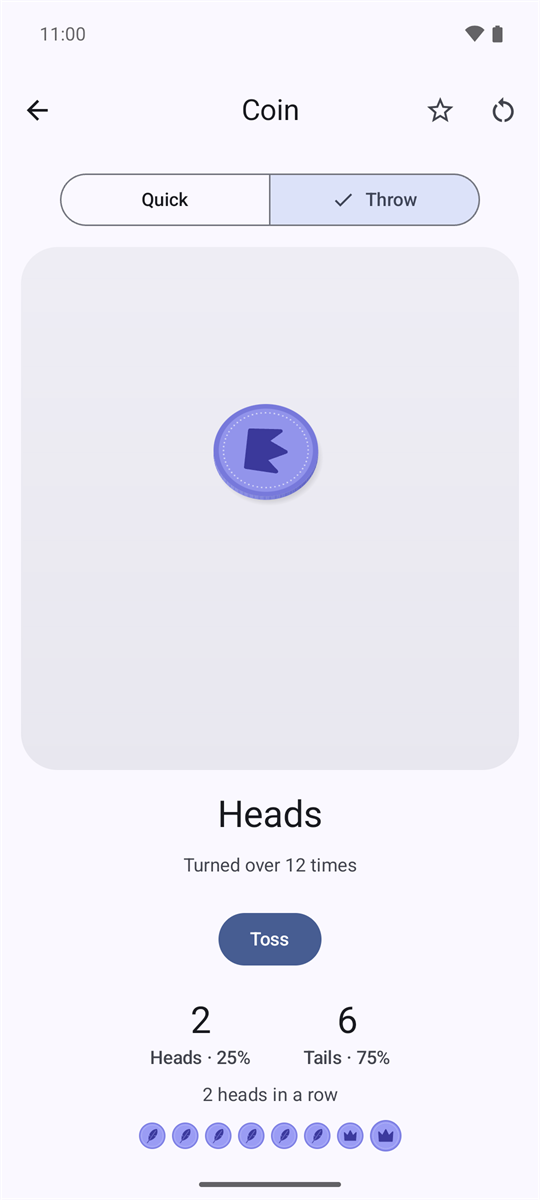
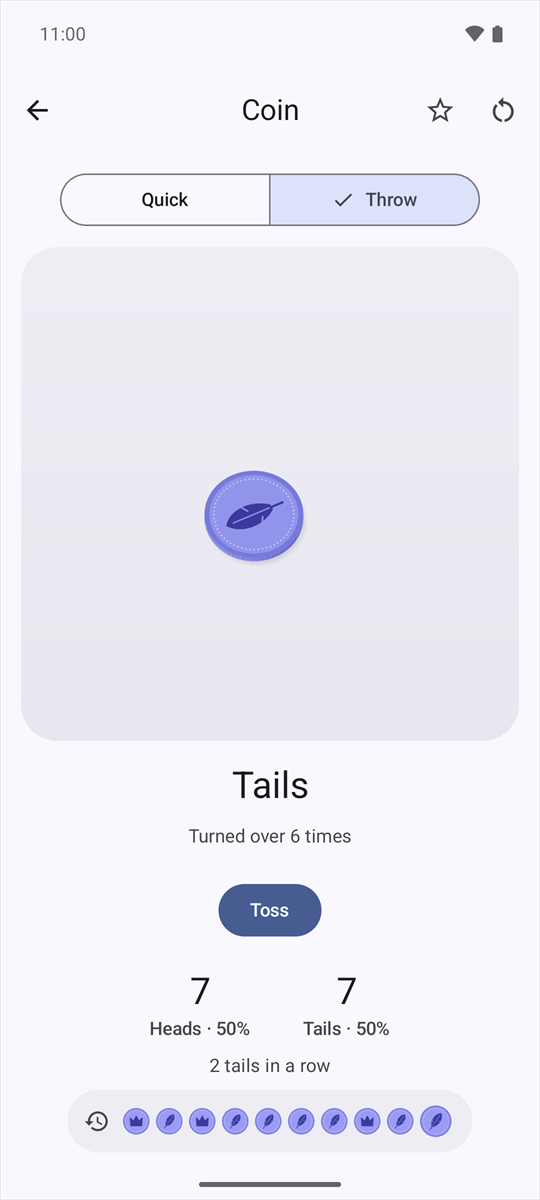
Phase 22: Release 1.2.0, docs and website (#23)
Version 1.2.0 (code 3). 1.1.0 was never published, so 1.2.0 is the first
release-signed build and its changelog includes 1.1.0's changes.

- Changelog: 1.2.0 section, with the uninstall-1.0.0 note moved to it.
- README: what's inside, Permissions (approximate location for True
  north, notifications and reboot for the Stopwatch), Your data, and
  the project layout.
- Website: tile copy for nine tools, privacy and permissions copy, and
  a "What's new in 1.2.0" link.
- Screenshots: Coin and Dice refreshed with the history bar, and the
  Calculator added as a sixth.

Changed region(s): [[0.1481, 0.6167, 0.8296, 0.9558], [0.3852, 0.3392, 0.5926, 0.4933]]

diff --git a/docs/index.html b/docs/index.html
@@ -131,7 +131,7 @@ h2 { font-size: clamp(28px, 4vw, 38px); letter-spacing: -.01em; margin: 0 0 8px;
 .sub { color: var(--text-2); margin: 0 0 32px; font-size: 17px; max-width: 42em; }
 
 /* Screenshots */
-.shots { display: grid; grid-template-columns: repeat(5, 1fr); gap: 16px; }
+.shots { display: grid; grid-template-columns: repeat(6, 1fr); gap: 16px; }
 .shots figure { margin: 0; }
 .shots img { width: 100%; height: auto; display: block; border-radius: 18px; border: 1px solid var(--outline); background: var(--surface); }
 .shots figcaption { color: var(--text-2); font-size: 14px; text-align: center; margin-top: 8px; }
@@ -200,7 +200,7 @@ footer .wrap { display: flex; flex-wrap: wrap; gap: 12px; justify-content: space
         <a class="btn primary" href="https://github.com/totallynotkasai/Toolbox/releases/latest"><span class="ms">download</span>Download APK</a>
         <a class="btn tonal" href="https://github.com/totallynotkasai/Toolbox"><span class="ms">code</span>View source</a>
       </div>
-      <p class="fine">Free and offline. No ads, no accounts, no tracking. <a href="https://github.com/totallynotkasai/Toolbox/blob/main/CHANGELOG.md">What’s new in 1.1.0</a></p>
+      <p class="fine">Free and offline. No ads, no accounts, no tracking. <a href="https://github.com/totallynotkasai/Toolbox/blob/main/CHANGELOG.md">What’s new in 1.2.0</a></p>
     </div>
 
     <div class="phone" aria-hidden="true">
@@ -243,8 +243,9 @@ footer .wrap { display: flex; flex-wrap: wrap; gap: 12px; justify-content: space
     <p class="sub">Material You throughout, with real physics for the coin and dice.</p>
     <div class="shots">
       <figure><img src="screenshots/home.png" width="540" height="1200" loading="lazy" alt="The home screen: search, category chips and a two-column tool grid"><figcaption>Home</figcaption></figure>
-      <figure><img src="screenshots/coin.png" width="540" height="1200" loading="lazy" alt="Coin in Throw mode, showing heads, the counts and the recent results"><figcaption>Coin</figcaption></figure>
-      <figure><img src="screenshots/dice.png" width="540" height="1200" loading="lazy" alt="Dice in Throw mode: three six-sided dice totalling 7"><figcaption>Dice</figcaption></figure>
+      <figure><img src="screenshots/coin.png" width="540" height="1200" loading="lazy" alt="Coin in Throw mode: tails, 7 heads and 7 tails, 2 tails in a row, and the last ten results in the history bar"><figcaption>Coin</figcaption></figure>
+      <figure><img src="screenshots/dice.png" width="540" height="1200" loading="lazy" alt="Dice in Throw mode: three six-sided dice totalling 14, with the last ten totals in the history bar"><figcaption>Dice</figcaption></figure>
+      <figure><img src="screenshots/calculator.png" width="540" height="1200" loading="lazy" alt="The Calculator with 150 in memory, recalled into 1200÷12+150, previewing 250"><figcaption>Calculator</figcaption></figure>
       <figure><img src="screenshots/connect-four.png" width="540" height="1200" loading="lazy" alt="Connect Four, won against the computer"><figcaption>Connect Four</figcaption></figure>
       <figure><img src="screenshots/bubble-wrap.png" width="540" height="1200" loading="lazy" alt="Bubble Wrap with a third of the sheet popped"><figcaption>Bubble Wrap</figcaption></figure>
     </div>
@@ -274,26 +275,26 @@ footer .wrap { display: flex; flex-wrap: wrap; gap: 12px; justify-content: space
       <p>Shake your phone to decide: it works on all six.</p>
       <div class="tiles">
         <div class="tile" data-tool="coin"><span class="ic c-yellow" style="--i:url(icons/coin.svg)"></span><div><b>Coin</b><span>Quick flip, or Throw: a physics coin you swipe or flick. Keeps counts and streaks.</span></div></div>
-        <div class="tile" data-tool="dice"><span class="ic c-green" style="--i:url(icons/dice.svg)"></span><div><b>Dice</b><span>d4 to d20, up to six at once. Quick roll, or throw them across a walled table.</span></div></div>
+        <div class="tile" data-tool="dice"><span class="ic c-green" style="--i:url(icons/dice.svg)"></span><div><b>Dice</b><span>d4 to d20, up to six at once. Quick roll, or throw them across a walled table. Keeps your last 20 rolls.</span></div></div>
         <div class="tile" data-tool="eightball"><span class="ic c-red" style="--i:url(icons/eightball.svg)"></span><div><b>Magic 8-Ball</b><span>Ask a question and shake for one of the 20 classic answers.</span></div></div>
-        <div class="tile" data-tool="random"><span class="ic c-blue" style="--i:url(icons/random.svg)"></span><div><b>Random Number</b><span>Any whole number in a range, negatives included.</span></div></div>
-        <div class="tile" data-tool="spinner"><span class="ic c-green" style="--i:url(icons/spinner.svg)"></span><div><b>Spinner</b><span>A wheel of up to 20 of your own options. A flick always turns it at least twice, so it can’t be aimed.</span></div></div>
-        <div class="tile" data-tool="teams"><span class="ic c-yellow" style="--i:url(icons/teams.svg)"></span><div><b>Team Splitter</b><span>Split up to 60 names by team count or team size, then share the teams as text.</span></div></div>
+        <div class="tile" data-tool="random"><span class="ic c-blue" style="--i:url(icons/random.svg)"></span><div><b>Random Number</b><span>Any whole number in a range, negatives included, with your last 20 kept.</span></div></div>
+        <div class="tile" data-tool="spinner"><span class="ic c-green" style="--i:url(icons/spinner.svg)"></span><div><b>Spinner</b><span>A wheel of up to 20 of your own options. A flick always turns it at least twice, so it can’t be aimed. Keeps your last 20 results.</span></div></div>
+        <div class="tile" data-tool="teams"><span class="ic c-yellow" style="--i:url(icons/teams.svg)"></span><div><b>Team Splitter</b><span>Split up to 60 names by team count or team size, then share the teams as text. Your last split is kept.</span></div></div>
       </div>
     </div>
 
     <div class="cat" data-c="Measurements">
       <h3><span class="ms">straighten</span>Measurements</h3>
-      <p>Uses your phone’s sensors and microphone. Permissions are only asked for when you open a screen that needs them.</p>
+      <p>Uses your phone’s sensors and microphone. Permissions are only asked for when you open a screen that needs them, and approximate location only if you turn on true north.</p>
       <div class="tiles">
         <div class="tile" data-tool="level"><span class="ic c-green" style="--i:url(icons/level.svg)"></span><div><b>Bubble Level</b><span>Tilt on both axes to 0.1°, which edge is high, and “Set as level” for a phone that doesn’t sit flat.</span></div></div>
-        <div class="tile" data-tool="calculator"><span class="ic c-red" style="--i:url(icons/calculator.svg)"></span><div><b>Calculator</b><span>Brackets, phone-style percentages, a live preview and exact decimals. Turns with the phone.</span></div></div>
-        <div class="tile" data-tool="compass"><span class="ic c-red" style="--i:url(icons/compass.svg)"></span><div><b>Compass</b><span>Magnetic, with calibration and interference warnings and a marked bearing to follow.</span></div></div>
+        <div class="tile" data-tool="calculator"><span class="ic c-red" style="--i:url(icons/calculator.svg)"></span><div><b>Calculator</b><span>Brackets, phone-style percentages, a live preview and exact decimals. Memory keys, your last 50 sums, and it turns with the phone.</span></div></div>
+        <div class="tile" data-tool="compass"><span class="ic c-red" style="--i:url(icons/compass.svg)"></span><div><b>Compass</b><span>Magnetic or true north, with calibration and interference warnings and a marked bearing to follow.</span></div></div>
         <div class="tile" data-tool="soundmeter"><span class="ic c-yellow" style="--i:url(icons/soundmeter.svg)"></span><div><b>Sound Meter</b><span>Approximate dB with min, average, max and 30 s of history. Calibrate it to your phone’s mic.</span></div></div>
         <div class="tile" data-tool="steps"><span class="ic c-blue" style="--i:url(icons/steps.svg)"></span><div><b>Step Counter</b><span>Counts from midnight even with the app closed. Goal ring, distance, calories and a 7-day chart.</span></div></div>
         <div class="tile" data-tool="counter"><span class="ic c-blue" style="--i:url(icons/counter.svg)"></span><div><b>Tally Counter</b><span>Tap to count anything, with undo after a reset.</span></div></div>
         <div class="tile" data-tool="tuner"><span class="ic c-blue" style="--i:url(icons/tuner.svg)"></span><div><b>Tuner</b><span>Chromatic, guitar, bass, ukulele and violin, with a needle in cents.</span></div></div>
-        <div class="tile" data-tool="units"><span class="ic c-green" style="--i:url(icons/units.svg)"></span><div><b>Unit Converter</b><span>Ten categories, with UK and US pints, gallons, tons and mpg.</span></div></div>
+        <div class="tile" data-tool="units"><span class="ic c-green" style="--i:url(icons/units.svg)"></span><div><b>Unit Converter</b><span>Eleven categories, with UK and US pints, gallons, tons and mpg. Cooking turns cups into grams and gas marks into °C.</span></div></div>
       </div>
     </div>
 
@@ -302,8 +303,8 @@ footer .wrap { display: flex; flex-wrap: wrap; gap: 12px; justify-content: space
       <p>Clocks and counters for the kitchen, the gym and the practice room.</p>
       <div class="tiles">
         <div class="tile" data-tool="dates"><span class="ic c-red" style="--i:url(icons/dates.svg)"></span><div><b>Date Calculator</b><span>Days and working days between dates, adding and subtracting, and age.</span></div></div>
-        <div class="tile" data-tool="metronome"><span class="ic c-red" style="--i:url(icons/metronome.svg)"></span><div><b>Metronome</b><span>30 to 250 BPM, tap tempo, time signatures and an accent on the first beat.</span></div></div>
-        <div class="tile" data-tool="stopwatch"><span class="ic c-red" style="--i:url(icons/stopwatch.svg)"></span><div><b>Stopwatch</b><span>Hundredths of a second, with laps and an optional keep-screen-on.</span></div></div>
+        <div class="tile" data-tool="metronome"><span class="ic c-red" style="--i:url(icons/metronome.svg)"></span><div><b>Metronome</b><span>30 to 250 BPM and tap tempo, 2/4 to 6/8 with accents, and 2, 3 or 4 clicks a beat. Remembers your settings.</span></div></div>
+        <div class="tile" data-tool="stopwatch"><span class="ic c-red" style="--i:url(icons/stopwatch.svg)"></span><div><b>Stopwatch</b><span>Hundredths of a second and laps. Keeps running with the app closed, with Pause and Lap in the notifications.</span></div></div>
         <div class="tile" data-tool="timer"><span class="ic c-yellow" style="--i:url(icons/timer.svg)"></span><div><b>Timer</b><span>A real alarm: it rings on time with the phone asleep, at alarm volume, until you stop it. Countdown in the notifications.</span></div></div>
       </div>
     </div>
@@ -366,11 +367,11 @@ footer .wrap { display: flex; flex-wrap: wrap; gap: 12px; justify-content: space
     <p class="sub">Toolbox is built in Kotlin and Jetpack Compose, styled after Google’s own search tools.</p>
     <div class="features">
       <div class="feature"><span class="ms">palette</span><h3>Material You</h3><p>Picks up your wallpaper colours on Android 12 and later, with light and dark themes.</p></div>
-      <div class="feature"><span class="ms">shield</span><h3>Nothing leaves your phone</h3><p>No internet permission, no analytics, no ads and no sign-in. Scores and settings stay on the phone, and go only into your own Android backup if you use one. Step history is left out.</p></div>
+      <div class="feature"><span class="ms">shield</span><h3>Nothing leaves your phone</h3><p>No internet permission, no analytics, no ads and no sign-in. Scores and settings stay on the phone, and go only into your own Android backup if you use one. Step history and the stopwatch are left out. True north keeps only the declination, never your location.</p></div>
       <div class="feature"><span class="ms">inventory_2</span><h3>No third-party code</h3><p>Pitch detection, audio synthesis, dice and coin physics and every game AI are written from scratch.</p></div>
       <div class="feature"><span class="ms">vibration</span><h3>Shake to decide</h3><p>Shake your phone to flip, roll, spin, ask, pick a number or reshuffle teams. Harder shakes throw higher.</p></div>
       <div class="feature"><span class="ms">accessibility_new</span><h3>Works with TalkBack</h3><p>Every screen reads out properly and fits at large text sizes, and the turn-based games can be played with TalkBack.</p></div>
-      <div class="feature"><span class="ms">lock_open</span><h3>Permissions on demand</h3><p>Microphone and activity access are only asked for when you open a screen that needs them, and notifications when you first start a timer.</p></div>
+      <div class="feature"><span class="ms">lock_open</span><h3>Permissions on demand</h3><p>Microphone and activity access are only asked for when you open a screen that needs them, approximate location only for true north, and notifications when you first start a timer or the stopwatch.</p></div>
     </div>
   </div>
 </section>

diff --git a/README.md b/README.md
@@ -5,39 +5,44 @@ Forty everyday tools, fidget toys and mini-games in one Android app, styled afte
 **Website:** https://totallynotkasai.github.io/Toolbox/
 **Download:** [latest APK](https://github.com/totallynotkasai/Toolbox/releases/latest/download/Toolbox.apk) (Android 8.0 and up) · [what's new](CHANGELOG.md)
 
-> **Upgrading from 1.0.0?** Version 1.0.0 was signed with a development key, and 1.1.0 onwards uses the project's release key. Android won't install one over the other, so uninstall 1.0.0 first. Its scores, favourites and settings are lost. Later versions update in place.
+> **Upgrading from 1.0.0?** Version 1.0.0 was signed with a development key, and 1.2.0 onwards uses the project's release key. Android won't install one over the other, so uninstall 1.0.0 first. Its scores, favourites and settings are lost. Later versions update in place.
 
 <p align="center">
-  <img src="docs/screenshots/home.png" width="19%" alt="The home screen: search, category chips and a two-column tool grid">
-  <img src="docs/screenshots/coin.png" width="19%" alt="Coin in Throw mode, showing heads, the counts and the recent results">
-  <img src="docs/screenshots/dice.png" width="19%" alt="Dice in Throw mode: three six-sided dice totalling 7">
-  <img src="docs/screenshots/connect-four.png" width="19%" alt="Connect Four, won against the computer">
-  <img src="docs/screenshots/bubble-wrap.png" width="19%" alt="Bubble Wrap with a third of the sheet popped">
+  <img src="docs/screenshots/home.png" width="15.5%" alt="The home screen: search, category chips and a two-column tool grid">
+  <img src="docs/screenshots/coin.png" width="15.5%" alt="Coin in Throw mode: tails, the counts, the run and the history bar">
+  <img src="docs/screenshots/dice.png" width="15.5%" alt="Dice in Throw mode: three six-sided dice totalling 14, with the history bar">
+  <img src="docs/screenshots/calculator.png" width="15.5%" alt="The Calculator with a value in memory, recalled into a sum">
+  <img src="docs/screenshots/connect-four.png" width="15.5%" alt="Connect Four, won against the computer">
+  <img src="docs/screenshots/bubble-wrap.png" width="15.5%" alt="Bubble Wrap with a third of the sheet popped">
 </p>
 
 ## What's inside
 
 - **Decision Making:** Coin (Quick flip, or Throw: a physics coin you swipe or flick) · Dice (d4 to d20, up to 6 dice, Quick or Throw) · Magic 8-Ball · Random Number · Spinner (your own options) · Team Splitter
-- **Measurements:** Bubble Level · Calculator · Compass · Sound Meter · Step Counter · Tally Counter · Tuner (chromatic, guitar, bass, ukulele, violin) · Unit Converter (UK and US measures)
-- **Time:** Date Calculator · Metronome · Stopwatch (laps) · Timer (a real alarm)
+- **Measurements:** Bubble Level · Calculator (memory and history) · Compass (magnetic or true north) · Sound Meter · Step Counter · Tally Counter · Tuner (chromatic, guitar, bass, ukulele, violin) · Unit Converter (UK and US measures, and cooking: cups to grams and gas marks)
+- **Time:** Date Calculator · Metronome (2/4 to 6/8, with subdivisions) · Stopwatch (laps; keeps running when the app is closed) · Timer (a real alarm)
 - **Fidget Toys:** Bubble Wrap · Clicky Switches · Fidget Spinner · Purring Cat · Rain Stick · Rotary Dial · Zip & Ratchet
 - **Calm:** Meditate (guided breathing)
 - **Solo Games:** 2048 · Block Breaker · Lights Out · Memory Game · Reaction Time · Simon · Snake · Stack Tower
 - **Duo Games:** Air Hockey · Battleships · Connect Four · Dots and Boxes · Snowman (Hangman with a melting snowman) · Tic-Tac-Toe, each against the computer or another player on the same phone
 
-Search finds a tool by its name, category or keywords ("decibel" finds the Sound Meter, "north" the Compass). Star any tile to pin it under **Favourites**. Shake the phone to decide on the Coin, Dice, Spinner, Random Number, Magic 8-Ball and Team Splitter. The gear on the home screen holds the two app-wide switches, Vibration and Shake to decide.
+Search finds a tool by its name, category or keywords ("decibel" finds the Sound Meter, "north" the Compass). Star any tile to pin it under **Favourites**. Shake the phone to decide on the Coin, Dice, Spinner, Random Number, Magic 8-Ball and Team Splitter. The Coin, Dice, Spinner and Random Number keep their last 20 results, and the Team Splitter its last split. The gear on the home screen holds the two app-wide switches, Vibration and Shake to decide.
 
 Every screen works with TalkBack and at large font sizes, and the turn-based games can be played with TalkBack.
 
 ## Permissions
 
-The microphone (Tuner, Sound Meter) and physical activity (Step Counter) are asked for only when their screen first opens. The Step Counter also starts after a reboot so the day's count carries on.
+The microphone (Tuner, Sound Meter) and physical activity (Step Counter) are asked for only when their screen first opens.
 
-Notifications are asked for the first time a timer starts. They show the Timer's countdown, and its Stop and +1 min buttons, outside the app. Without them the alarm still rings, and opening Toolbox stops it. The Timer sets an alarm-clock alarm so it rings on time with the phone asleep, and plays the phone's alarm sound at alarm volume until it is stopped. A timer that is running when the phone restarts is lost.
+Approximate location is asked for only when True north is first turned on in the Compass, and never precise location. It's used to work out the declination (the angle between magnetic and true north where you are) on the phone, with no internet, at most once a day. Only the declination is kept, never the location. Without it, the declination can be typed in.
+
+Notifications are asked for the first time a timer or the stopwatch starts. They show the Timer's countdown, with Stop and +1 min, and the Stopwatch's running time, with Pause and Lap (or Resume and Reset). Without them the alarm still rings, opening Toolbox stops it, and the stopwatch still keeps running. The Timer sets an alarm-clock alarm so it rings on time with the phone asleep, and plays the phone's alarm sound at alarm volume until it is stopped. A timer that is running when the phone restarts is lost.
+
+Toolbox also starts after a reboot, so the Step Counter's day carries on and a running or paused stopwatch's notification comes back. The stopwatch keeps the right time across a restart either way.
 
 ## Your data
 
-Scores, favourites and settings are kept on the phone. If Android backup is on, they go into your own backup like any app's, so a new phone gets them back. The Step Counter's history is left out, because its readings only make sense on the phone that took them.
+Scores, favourites, settings, Calculator memory and history, and the recent results of the Coin, Dice, Spinner and Random Number are kept on the phone. If Android backup is on, they go into your own backup like any app's, so a new phone gets them back. The Step Counter's history and the Stopwatch are left out, because their readings only make sense on the phone that took them. The Compass keeps only its declination, never your location.
 
 ## Building
 
@@ -86,6 +91,9 @@ app/src/main/java/com/toolbox/app/
                     ToolIcons.kt    the hand-drawn icons, also exported for the website
                     Prefs.kt        saved settings; Vibes.kt every vibration
                     PcmStream.kt    streamed procedural audio; ToneSynth.kt and Dsp.kt build sounds on it
+                    ResultHistory.kt  recent results: the bar and the full list
+                    NotificationAccess.kt  asking for notifications (Timer, Stopwatch)
+                    SteadyText.kt   text that keeps its size as it changes; Geometry.kt angles for the turning toys
                     Sensors.kt, Shake.kt, Mic.kt, Permissions.kt, KeepScreenOn.kt
                     GameLoop.kt     frame timing for the real-time games
                     Toss.kt, Quat.kt, Rot.kt  shared by the coin and dice physics

diff --git a/CHANGELOG.md b/CHANGELOG.md
@@ -1,10 +1,41 @@
 # Changelog
 
+## 1.2.0
+
+New features for eight tools. It also includes everything listed under 1.1.0, which wasn't released on its own.
+
+**Before installing:** 1.0.0 was signed with a development key, and 1.2.0 uses the project's release key. Android won't install one over the other, so uninstall 1.0.0 first. Its scores, favourites and settings are lost. Later versions update in place.
+
+### New
+
+- **The Stopwatch keeps running** after you leave the screen, close the app or restart the phone. While it runs, a notification shows the time ticking, with Pause and Lap buttons, and Resume and Reset once paused. The main button now says Start, Pause and Resume. Laps keep their numbers past 999.
+- **Calculator memory and history.** An MC / MR / M+ / M− row sits above the keys (under the display when the phone is sideways), and an "M" on the display shows memory holds a value. The History button lists your last 50 sums: tap one to carry on from its answer, or the pencil to edit the sum. Clear has Undo. Memory and history are kept when the app closes.
+- **Compass true north.** Turn on True north and the compass corrects for the difference between magnetic and true north where you are. It asks once for your approximate location, works offline, and keeps only the correction, never the location. If you'd rather not share it, type the correction in yourself.
+- **Cooking units** in the Unit Converter: teaspoons, tablespoons, cups (US, imperial and metric), pints, fluid ounces, grams and pounds, with cups to grams for 12 ingredients from flour to honey. Oven temperatures convert between °C, fan °C, °F and gas mark, using the UK recipe chart.
+- **Result history** on the Dice, Spinner and Random Number. A bar under the result shows the latest ones, and tapping it opens the last 20 with Clear and Undo. The Coin uses the same bar and list, and now keeps 20 results too. Clearing its list keeps the heads and tails counts.
+- **The Team Splitter remembers its last split.** It comes back when you reopen it, until you change the names or reshuffle.
+
+### Changed
+
+- **Metronome:** 6/8 time (six clicks a bar, strong on 1 and lighter on 4), and subdivisions of 2, 3 or 4 clicks per beat, quieter than the beat. Tempo, time signature, accent and subdivision are remembered. Beats stay exactly in time at every tempo.
+- **Unit Converter:** each picker groups its units under headings in Cooking, unit names no longer repeat their symbol, and the category row opens scrolled to the chosen category.
+
+### Permissions
+
+- **Approximate location**, only if you turn on True north on the Compass. The location is used once a day to work out the correction and isn't kept.
+- **Notifications** are now also asked for the first time the Stopwatch starts, so it can show its time and buttons outside the app. Without them it still keeps running.
+- **Starting after a reboot** now also brings back a running or paused stopwatch's notification.
+
+### Behind the scenes
+
+- About 430 unit tests.
+- The stopwatch isn't copied into Android backups, because its time only makes sense on the phone that started it. Calculator memory and history, result history and the other new settings are backed up like the rest.
+
 ## 1.1.0
 
-A big round of fixes and polish after a full review of the app.
+Not released on its own. Its changes are all in 1.2.0.
 
-**Before installing:** 1.0.0 was signed with a development key, and 1.1.0 uses the project's release key. Android won't install one over the other, so uninstall 1.0.0 first. Its scores, favourites and settings are lost. Later versions update in place.
+A big round of fixes and polish after a full review of the app.
 
 ### New
 
